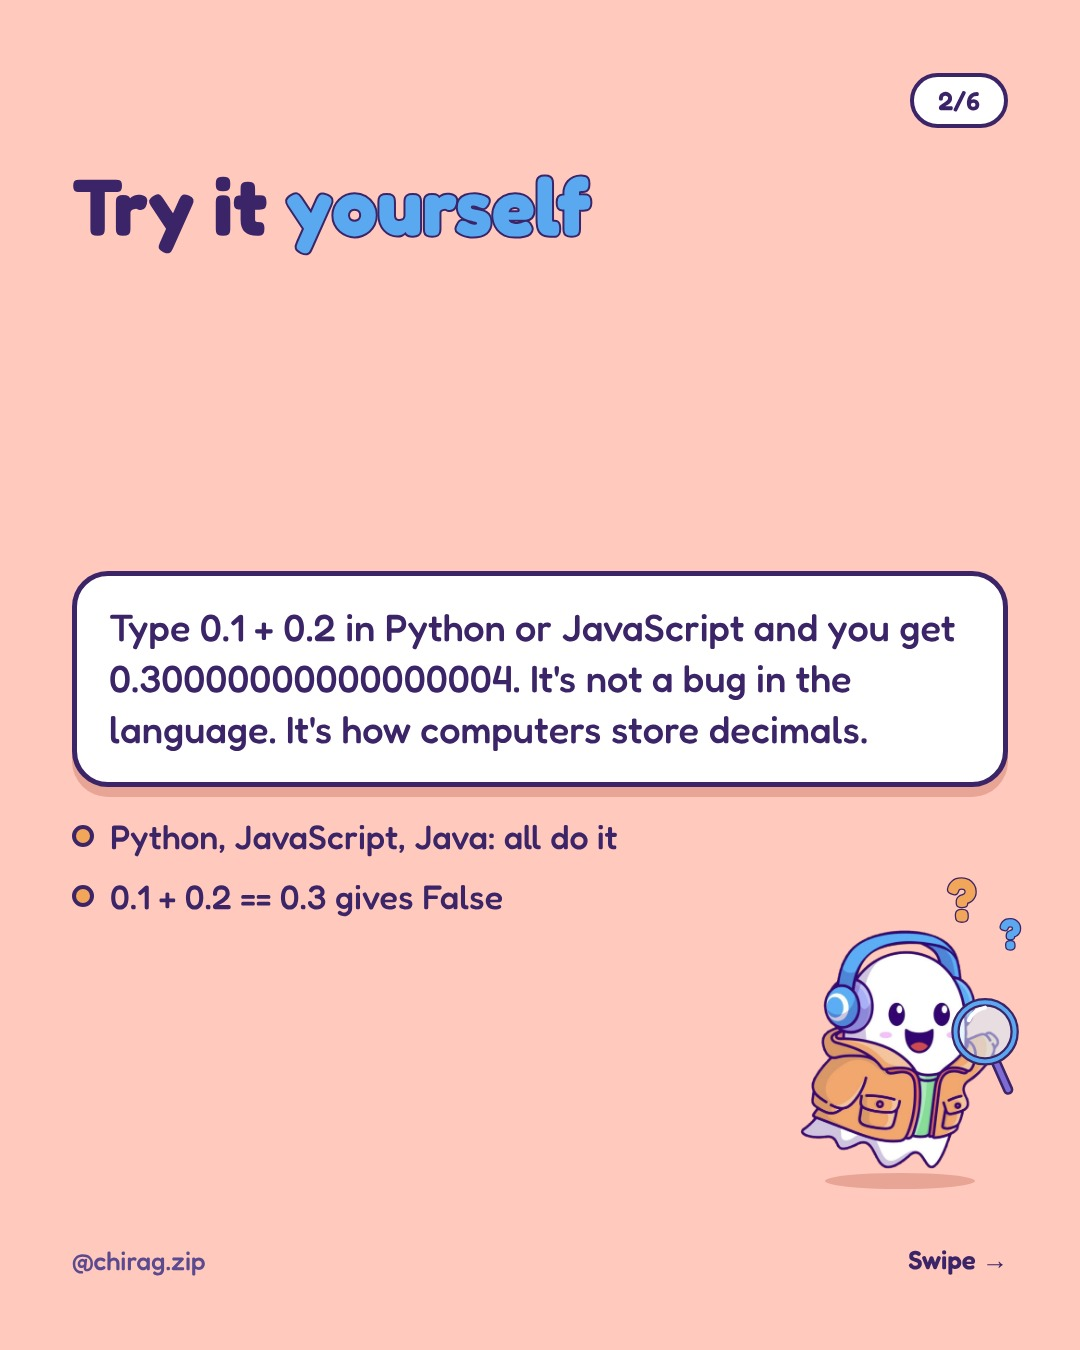
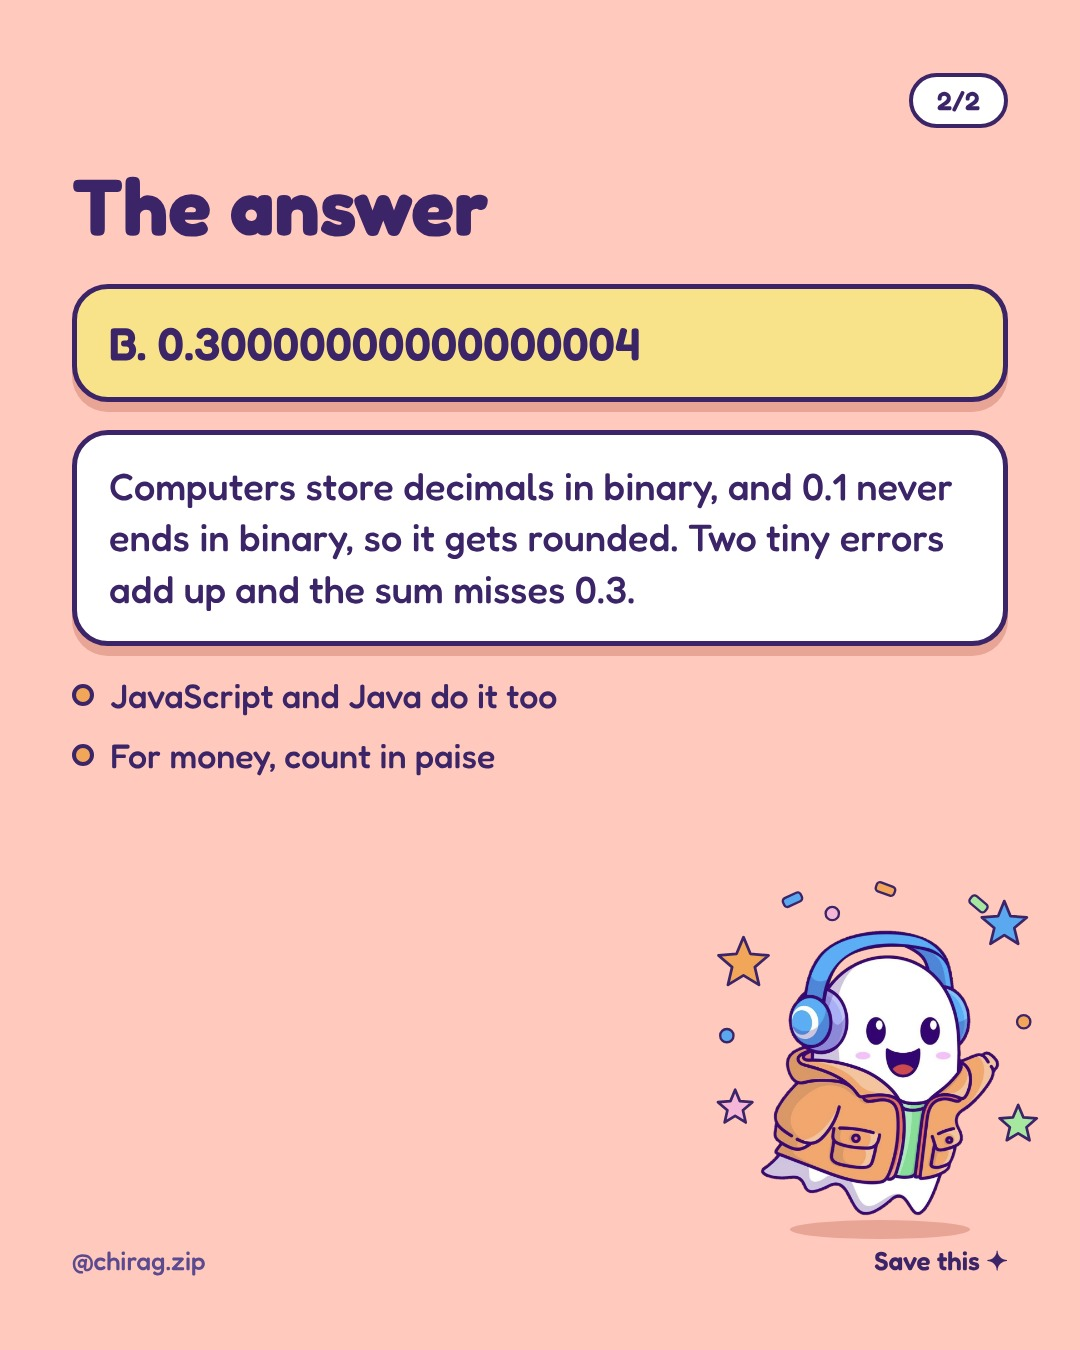
Rotate post formats: one-shot, quiz duo, quick bite, deep dive
- render.py: 1-10 slides; new single, quiz and answer slide types
- GENERATOR.md: never repeat the previous post's format
- Queue: 018 UPI as 3-slide quick bite, 019 floats as quiz duo,
  020 password cracking as a one-shot

Claude-Session: https://claude.ai/code/session_01TTUVK5tapDoMgt4md4Z9qs

diff --git a/studio/render.py b/studio/render.py
@@ -13,7 +13,7 @@ post.json:
           or {"ground": "#hex", "shadow": "#hex", "highlight": "#hex"}
              (your own colours; shadow and highlight optional; the ground
               must keep the purple ink readable, else the render stops)
-  "slides": [ ...slide objects, 3 to 8... ],
+  "slides": [ ...slide objects, 1 to 10 (see FORMATS in GENERATOR.md)... ],
   "caption": "..."
 }
 In any title, wrap the key words in {braces} to highlight them in the
@@ -29,6 +29,9 @@ Slide types (all text fields are plain text):
   cards     title, cards[{icon,title,text}] (2-4)
   compare   title, left{label,items[2-4]}, right{label,items[2-4]}
   outro     title, text, cta
+  single    tag (optional), title, body, points[0-3]   (a whole post in one image)
+  quiz      tag (optional), title (the question), options[4], bubble (optional)
+  answer    title (optional, default "The answer"), answer, body, points[0-3]
 Every slide may set "mood" to change what Boo is doing (see studio/moods.py):
   curious idea thinking working celebrate study wow
   Defaults: cover curious, statement idea, outro celebrate.
@@ -155,9 +158,10 @@ ul.pts li{font-size:34px;line-height:1.3;font-weight:500;display:flex;gap:16px;a
 
 
 def frame(inner, n, total, series, extra_top=""):
-    swipe = "<b>Swipe →</b>" if n < total else "<b>Save this ✦</b>"
+    swipe = "<b>Swipe →</b>" if n < total else ("<b>Follow for more ✦</b>" if total == 1 else "<b>Save this ✦</b>")
+    counter = f'<span class="pill">{n}/{total}</span>' if total > 1 else ""
     return f"""<div class="s" style="background:{GROUND[series]};--sh:{SHADOW[series]};--hl:{HIGHLIGHT.get(series, JACKET)}">
-<div class="top">{extra_top or '<span></span>'}<span class="pill">{n}/{total}</span></div>
+<div class="top">{extra_top or '<span></span>'}{counter}</div>
 {inner}
 <div class="foot"><span>{HANDLE}</span>{swipe}</div></div>"""
 
@@ -248,6 +252,32 @@ def slide_html(sl, n, total, series):
 {boo_img(330, 560, 420, series, mood_of(sl))}
 <div class="bubble" style="position:absolute;left:160px;top:1150px;width:760px;font-size:36px">{esc(sl.get('cta') or 'Follow ' + HANDLE + ' for more')}</div>"""
         return frame(inner, n, total, series)
+    if t == "single":
+        pts = sl.get("points") or []
+        plist = "".join(f'<li><span class="dot"></span><span>{esc(p)}</span></li>' for p in pts[:3])
+        inner = f"""<h1 style="font-size:92px">{hl(sl.get('title'))}</h1>
+<div class="main" style="justify-content:flex-start"><div class="card"><p class="body">{esc(sl.get('body'))}</p></div>
+{f'<ul class="pts" style="padding-right:330px">{plist}</ul>' if plist else ''}</div>
+{boo_img(690, 770, 320, series, mood_of(sl))}"""
+        tag = f'<span class="pill" style="background:#fff">{esc(sl.get("tag") or SERIES_LABEL[series])}</span>'
+        return frame(inner, n, total, series, tag)
+    if t == "quiz":
+        opts = "".join(f'<div class="card q"><b>{"ABCD"[i]}.</b> {esc(o)}</div>' for i, o in enumerate(sl.get("options", [])[:4]))
+        inner = f"""<h1 style="font-size:84px">{hl(sl.get('title'))}</h1>
+<div class="main" style="width:600px;justify-content:flex-start">{opts}</div>
+<div class="bubble" style="position:absolute;left:700px;top:560px;width:310px">{esc(sl.get('bubble') or 'Comment your answer!')}</div>
+{boo_img(690, 790, 320, series, mood_of(sl))}"""
+        tag = f'<span class="pill" style="background:#fff">{esc(sl.get("tag") or "Quiz · " + SERIES_LABEL[series].split(" ·")[0])}</span>'
+        return frame(inner, n, total, series, tag)
+    if t == "answer":
+        pts = sl.get("points") or []
+        plist = "".join(f'<li><span class="dot"></span><span>{esc(p)}</span></li>' for p in pts[:3])
+        inner = f"""<h2>{hl(sl.get('title') or 'The answer')}</h2>
+<div class="main" style="justify-content:flex-start"><div class="card" style="background:#F9E38A"><p class="st" style="font-size:46px">{esc(sl.get('answer'))}</p></div>
+<div class="card"><p class="body">{esc(sl.get('body'))}</p></div>
+{f'<ul class="pts" style="padding-right:290px">{plist}</ul>' if plist else ''}</div>
+{boo_img(760, 930, 240, series, mood_of(sl))}"""
+        return frame(inner, n, total, series)
     raise ValueError(f"Unknown slide type: {t}")
 
 
@@ -329,8 +359,8 @@ def main():
         sys.exit(f"Unknown series {series!r}; use one of {', '.join(SERIES_PALETTE)}")
     resolve_palette(spec.get("palette") or SERIES_PALETTE[series], series)
     slides = spec.get("slides", [])
-    if not 3 <= len(slides) <= 8:
-        sys.exit("A post needs 3 to 8 slides.")
+    if not 1 <= len(slides) <= 10:
+        sys.exit("A post needs 1 to 10 slides.")
     os.makedirs(out_dir, exist_ok=True)
 
     from playwright.sync_api import sync_playwright

diff --git a/studio/moods.py b/studio/moods.py
@@ -112,7 +112,8 @@ MOODS = {
 }
 
 DEFAULT_BY_SLIDE = {"cover": "curious", "statement": "idea", "steps": "working",
-                    "cards": "thinking", "compare": "thinking", "outro": "celebrate"}
+                    "cards": "thinking", "compare": "thinking", "outro": "celebrate",
+                    "single": "idea", "quiz": "thinking", "answer": "celebrate"}
 
 PAD = 260
 

diff --git a/studio/GENERATOR.md b/studio/GENERATOR.md
@@ -34,11 +34,17 @@ Audience: curious beginners on Instagram. Boo is a friendly ghost who explains t
 
 - **Research first.** Search the web for the topic and check every fact, name and number you use against a current, reliable source (official docs, the company's own site, a reputable explainer). Never invent statistics, quotes or features. If a detail can't be verified, leave it out.
 - **Voice:** short sentences, everyday words, one idea per line, sentence case. Analogies over jargon; a technical term is said once, then explained. No hype, no clickbait, no emoji in slides.
-- **Shape: 5 to 7 slides.**
+- **Format: change it every post.** Look at the previous post (the newest folder in `queue/`, or in `posted/` if the queue is empty: count its JPEGs) and never repeat its format. Across any 6 posts, use every format at least once. Rough mix: deep dive 30 %, quick bite 25 %, quiz duo 25 %, one-shot 20 %. Pick the format that suits the topic (a surprising answer → quiz duo; a single crisp idea → one-shot; a process → quick bite; a meaty topic → deep dive).
+  - **One-shot (1 image):** one `single` slide: title = the question with {key words}, body ≤ 35 words that answers it, up to 3 points (≤ 34 characters each). The caption carries the rest of the explanation. No outro.
+  - **Quiz duo (2 slides):** `quiz` (title = the question ≤ 44 characters, exactly 4 options ≤ 24 characters each, one clearly right, bubble "Guess, then swipe!") then `answer` (answer = "B. …", body ≤ 30 words why, up to 2 points). Caption opens with the question and asks people to comment how they did.
+  - **Quick bite (3 slides):** `cover` → one `steps`, `cards` or `compare` → `outro`.
+  - **Deep dive (5 to 7 slides):** the full shape below.
+- **Deep dive shape:**
   1. `cover`: the headline question with the key term in {braces}, 3–4 short questions the post answers (≤ 38 characters each), bubble "Let’s find out!".
   2. `statement`: the one-sentence answer as the title, a body of ≤ 30 words, up to 3 points (≤ 40 characters each), `boo: true`.
   3–5. One to three of `steps` (3–4 steps, title ≤ 22 characters, text ≤ 45 characters, optional tip ≤ 55 characters), `cards` (exactly 4, title ≤ 22, text ≤ 45, icon from the list in `render.py`), `compare` (2–4 items a side, ≤ 30 characters each).
   Last. `outro`: title "Follow {@chirag.zip}", text "Tech explained simply, in cartoons, by Boo.", a cta such as "Save this for later" or "Share with a friend who needs this".
+- **Audience:** college students and geeky beginners. Hooks can be playful and relatable (exams, vivas, hostel Wi-Fi, splitting bills on UPI), but every fact stays checked.
 - **Titles:** ≤ 32 characters for slides 2+, highlight 1–3 words with {braces}.
 - **Boo's moods** (`"mood"` on a slide; props drawn around Boo, see `studio/moods.py`): curious (magnifier, ?), idea (lightbulb), thinking (thought bubble), working (laptop, code tag), study (graduation cap, notes), wow (! marks), celebrate (stars, confetti). Match the mood to what the slide says: a surprising fact → wow, a how-to → working, a learning tip → study, the big answer → idea. Defaults are cover curious, statement idea, outro celebrate; change at least one of them per post so consecutive posts don't repeat the same set.
 - **Small Boo:** add `"boo": true` to 1–2 of the middle slides (steps, cards, compare) for a small Boo beside the title in mood working, study or curious. Never on every slide.
@@ -53,6 +59,6 @@ Audience: curious beginners on Instagram. Boo is a friendly ghost who explains t
 
 ## 5. Saving
 
-- Append one line per post to `studio/log.md`: date, folder, series, palette, one-line summary, and the sources you checked.
+- Append one line per post to `studio/log.md`: date, folder, series, palette, one-line summary starting with the format in brackets (e.g. `[quiz duo]`), and the sources you checked.
 - Commit only new files under `queue/` plus `studio/topics.md` and `studio/log.md`, message `Queue: <folder names>`, and push to the default branch.
-- Never edit `.github/`, `scripts/`, `posted/` or any secret, and never post to Instagram directly.
+- Never edit `.github/`, `scripts/`, `posted/`, `held/` or any secret, and never post to Instagram directly.

diff --git a/studio/log.md b/studio/log.md
@@ -20,6 +20,7 @@
 | 2026-11-05 | 016-what-is-phishing | security | peach | Phishing as fake emails, texts, DMs or calls that push harmful links/attachments or ask for personal info; red flags: urgency, requests for passwords or card details, untrusted short links, look-alike addresses (amazan.com); don’t click, verify another way, report, delete; perfect spelling isn’t proof; turn on MFA | CISA Secure Our World: Recognize and Report Phishing (other source hosts were blocked this run, so the load-balancer and Bitcoin posts were skipped) |
 | 2026-11-23 | 016-what-is-phishing | security | peach | MOVED to held/: Instagram rejected it on every run since 2026-11-06 (error 2207032), most likely because slide 3 shows a look-alike domain ("amazan.com"). Re-render without fake addresses before re-queuing | n/a |
 | 2026-11-23 | (topics.md) | n/a | n/a | Topic plan rebooted with "how does that work?" topics for college students; old explainer list retired | n/a |
-| 2026-11-23 | 017-how-shazam-works | data | aqua | Shazam turns a clip into a spectrogram, keeps loudest peaks, pairs them into hashes with time gaps, looks them up and checks they line up in time; works mid-song and through noise; 2003 paper by co-founder Avery Wang | Avery Wang (2003): An Industrial-Strength Audio Search Algorithm; TechSpot: How Shazam works |
-| 2026-11-23 | 018-how-upi-works | sysdesign | butter | UPI as an NPCI-run switch between banks; roles of app (TPAP), PSP bank, NPCI, your bank; UPI ID maps to a bank account; bank checks PIN and balance, debits then credits; failures/pending when a party is slow; never share PIN | Paytm: How does UPI work internally?; Razorpay: PSP vs TPAP; GeeksforGeeks: How does UPI work? |
-| 2026-11-23 | 019-why-0-1-plus-0-2 | dsa | coral | 0.1 + 0.2 = 0.30000000000000004 in Python/JS/Java; binary can't store 0.1 exactly (repeats like 1/3), IEEE 754 64-bit rounding errors add up; fixes: tolerance compare, integer paise, Decimal/BigDecimal, round on display; float vs decimal | Built In: Why 0.1 + 0.2 doesn't equal 0.3; Julia Evans: Why does 0.1 + 0.2 = 0.30000000000000004? |
+| 2026-11-23 | 017-how-shazam-works | data | aqua | [deep dive] Shazam turns a clip into a spectrogram, keeps loudest peaks, pairs them into hashes with time gaps, looks them up and checks they line up in time; works mid-song and through noise; 2003 paper by co-founder Avery Wang | Avery Wang (2003): An Industrial-Strength Audio Search Algorithm; TechSpot: How Shazam works |
+| 2026-11-23 | 018-how-upi-works | sysdesign | butter | [quick bite] UPI as an NPCI-run switch between banks; scan, app's bank sends to NPCI, your bank checks PIN and balance, debit then credit; PIN checked by your bank | Paytm: How does UPI work internally?; Razorpay: PSP vs TPAP; GeeksforGeeks: How does UPI work? |
+| 2026-11-23 | 019-why-0-1-plus-0-2 | dsa | coral | [quiz duo] What does 0.1 + 0.2 print in Python? Answer B 0.30000000000000004: binary can't store 0.1 exactly, rounding errors add up; JS/Java too; count money in paise | Built In: Why 0.1 + 0.2 doesn't equal 0.3; Julia Evans: Why does 0.1 + 0.2 = 0.30000000000000004? |
+| 2026-11-23 | 020-how-passwords-get-cracked | security | lime | [one-shot] Scripts, not typing: brute force, dictionary of common passwords, credential stuffing with leaked logins; caption: long unique passwords, password manager, 2FA | freeCodeCamp: How cybercriminals crack your passwords; Proofpoint: Password cracking techniques; NordVPN: Password cracking |

diff --git a/README.md b/README.md
@@ -30,6 +30,10 @@ Long-lived Instagram tokens last about 60 days. Before then, refresh it in the M
 
 The workflow wakes at five possible slots a day (9:13 AM, 11:52 AM, 2:26 PM, 5:38 PM, 8:44 PM IST). `scripts/slot.py` picks 1, 2 or 3 of them at random each day (weights 30/45/25 %) and waits a random 0–25 minutes before posting, so the feed doesn't look automated. Skipped slots show as green runs that did nothing. To change slots, edit the `cron` lines in `.github/workflows/post.yml` (UTC; IST = UTC + 5:30) and copy them into its `SLOTS` list; to change how many posts a day, edit `WEIGHTS` in `scripts/slot.py`. GitHub can start scheduled runs a few minutes late, and pauses schedules in repos with no activity for 60 days; each post's commit counts as activity.
 
+## Post formats
+
+Posts rotate between four formats so the feed never repeats itself: one-shot (1 image), quiz duo (question + answer), quick bite (3 slides) and deep dive (5–7 slides). `studio/render.py` supports all of them (slide types `single`, `quiz`, `answer` plus the originals); the rules are in `studio/GENERATOR.md`.
+
 ## Adding posts
 
 Ask Boo (Claude) for the next carousel: you get the slides as JPEGs plus `caption.txt`. Put them in a new numbered folder in `queue/` and commit. Keep a few days of posts queued.
